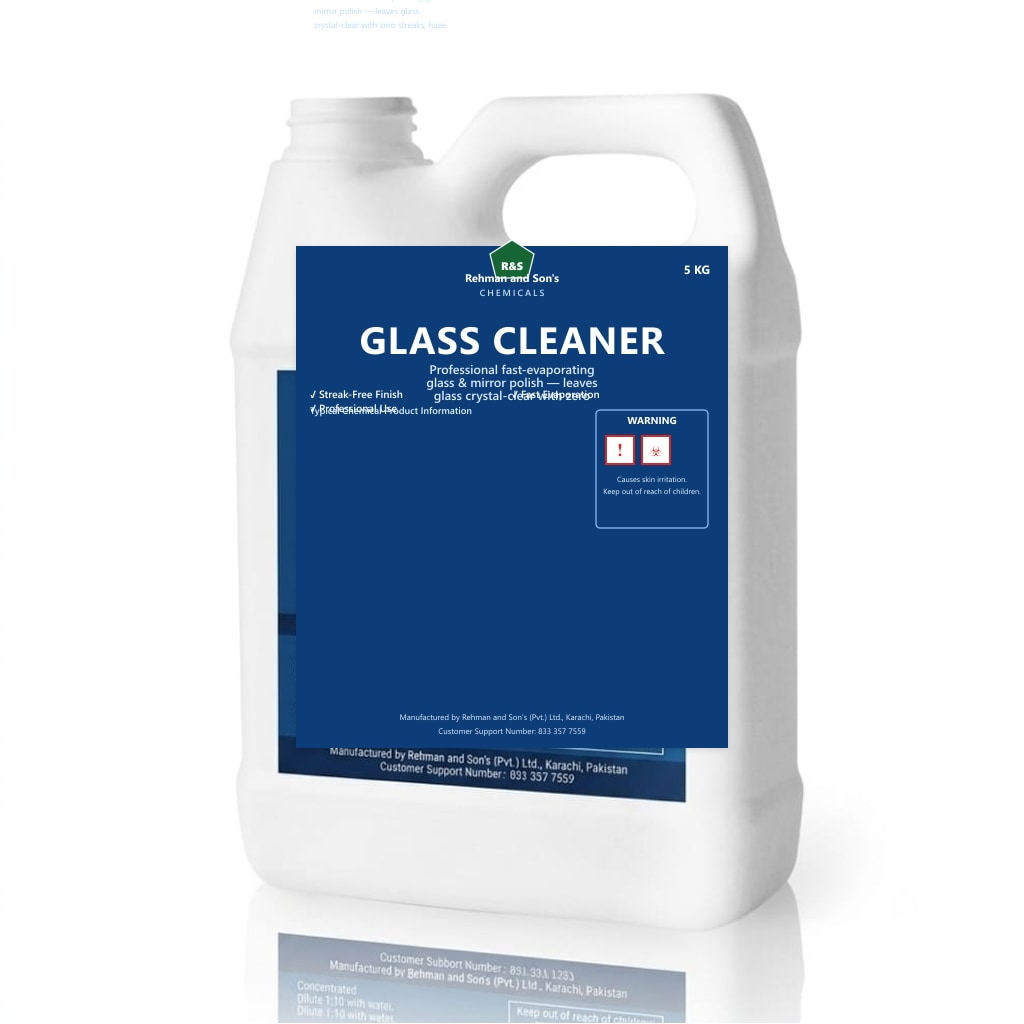
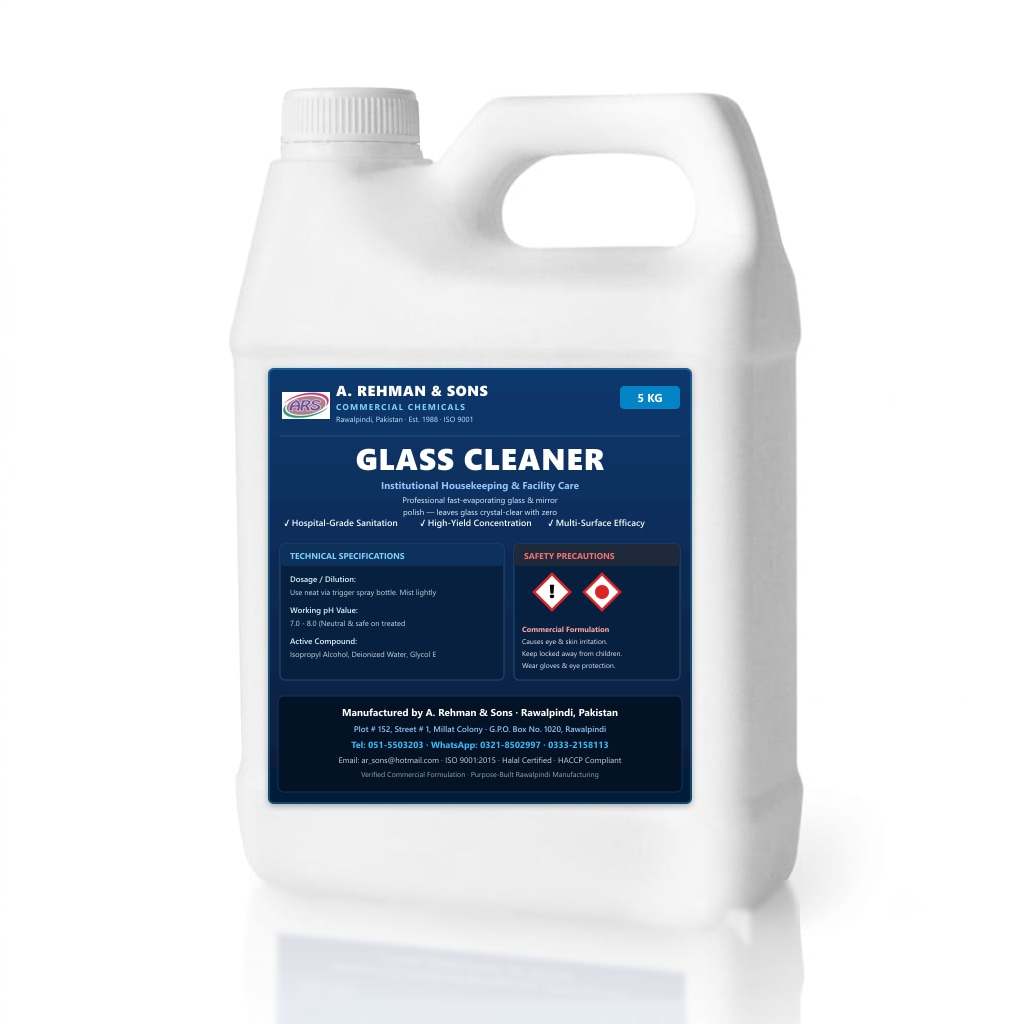
Fix 5kg canister mockup: add sealed cap, align labels with official ARS credentials, and clean reflection across all 29 products

diff --git a/scripts/generate_5kg_mockups.js b/scripts/generate_5kg_mockups.js
@@ -1,177 +1,223 @@
 /**
- * Build 5 kg product mockups (1024×1024) from the client reference layout:
- * same compact white jerrycan + blue label design — not scaled-down 25 kg cans.
+ * Generate 5 kg photorealistic product mockups (1024x1024) for all 29 products.
+ * Features:
+ * - Sealed, realistic ribbed cap on the canister neck.
+ * - Perfectly aligned label covering the canister's recessed panel.
+ * - Official A. Rehman & Sons (ARS) branding, logo, and Rawalpindi manufacturing credentials.
+ * - Accurate contact info (Tel: 051-5503203, WhatsApp: 0321-8502997).
+ * - Spotless studio reflection.
  */
-const fs = require("fs");
-const path = require("path");
-const sharp = require("sharp");
 
-const ROOT = path.join(__dirname, "..");
-const REF = path.join(ROOT, "assets", "products", "mockups", "5kg", "reference-5kg-zepol-sc100.png");
-const OUT_DIR = path.join(ROOT, "assets", "products", "mockups", "5kg");
+const fs = require('fs');
+const path = require('path');
+const sharp = require('sharp');
+const { ARS_PRODUCTS } = require('../js/products.js');
 
-const SIZE = 1024;
+const ROOT = path.join(__dirname, '..');
+const BASE_IMG = path.join(ROOT, 'assets', 'products', 'mockups', '5kg', 'base_5kg_capped_perfect.png');
+const LOGO_IMG = path.join(ROOT, 'assets', 'logo.png');
+const OUT_DIR = path.join(ROOT, 'assets', 'products', 'mockups', '5kg');
 
-/** Full front label on 1024 canvas (tuned to reference-5kg-zepol-sc100.png) */
-const LABEL = { x: 296, y: 246, w: 432, h: 502 };
+const LABEL = { x: 268, y: 368, w: 424, h: 436 };
 
-function escapeXml(s) {
-  return String(s)
-    .replace(/&/g, "&amp;")
-    .replace(/</g, "&lt;")
-    .replace(/>/g, "&gt;")
-    .replace(/"/g, "&quot;");
+function escapeXml(str) {
+  if (!str) return '';
+  return String(str)
+    .replace(/&/g, '&amp;')
+    .replace(/</g, '&lt;')
+    .replace(/>/g, '&gt;')
+    .replace(/"/g, '&quot;');
 }
 
-function wrapLines(text, maxChars) {
+function wrapText(text, maxChars = 52) {
+  if (!text) return [];
   const words = text.split(/\s+/).filter(Boolean);
   const lines = [];
-  let line = "";
+  let cur = '';
   for (const w of words) {
-    const next = line ? `${line} ${w}` : w;
-    if (next.length > maxChars && line) {
-      lines.push(line);
-      line = w;
+    if ((cur + ' ' + w).trim().length > maxChars) {
+      if (cur) lines.push(cur.trim());
+      cur = w;
     } else {
-      line = next;
+      cur = (cur + ' ' + w).trim();
     }
   }
-  if (line) lines.push(line);
-  return lines.slice(0, 3);
+  if (cur) lines.push(cur.trim());
+  return lines;
 }
 
-function featureBullets(description) {
-  const d = (description || "").toLowerCase();
-  if (d.includes("bleach") || d.includes("chlorine") || d.includes("hypochlorite")) {
-    return ["Whitening & Sanitizing", "Institutional Strength", "Concentrated"];
-  }
-  if (d.includes("powder") || d.includes("flakes") || d.includes("bag")) {
-    return ["Industrial Grade", "High Purity Formula", "5 kg Pack"];
-  }
-  if (d.includes("acid") || d.includes("descaler") || d.includes("corrosive")) {
-    return ["Scale & Mineral Removal", "Professional Strength", "Concentrated"];
-  }
-  if (d.includes("detergent") || d.includes("laundry") || d.includes("wash")) {
-    return ["Deep Cleaning Formula", "Commercial Laundry", "Concentrated"];
-  }
-  if (d.includes("glass") || d.includes("mirror")) {
-    return ["Streak-Free Finish", "Fast Evaporation", "Professional Use"];
-  }
-  return ["Deep Cleaning Formula", "Effective Performance", "Concentrated"];
-}
+const CATEGORY_TAGLINES = {
+  laundry: "Commercial Laundry Detergents & Bleaches",
+  kitchen: "Commercial Kitchen & Dishwashing Solutions",
+  stewarding: "Specialized Stewarding & Destaining Formulations",
+  housekeeping: "Institutional Housekeeping & Facility Care"
+};
 
-function subtitleLines(description) {
-  const clean = (description || "").replace(/\s+/g, " ").trim();
-  return wrapLines(clean, 34).map((line) => (line.length > 36 ? `${line.slice(0, 33)}…` : line));
-}
+const CATEGORY_BULLETS = {
+  laundry: ["✓ High Dilution Efficiency", "✓ Institutional Linen Care", "✓ 100% Commercial Grade"],
+  kitchen: ["✓ Heavy Grease Stripping", "✓ Food-Grade Formulation", "✓ Fast-Acting Degreaser"],
+  stewarding: ["✓ Deep Tannin & Stain Lifter", "✓ Melamine & Urn Safe", "✓ High Dilution Yield"],
+  housekeeping: ["✓ Hospital-Grade Sanitation", "✓ High-Yield Concentration", "✓ Multi-Surface Efficacy"]
+};
 
-function buildLabelOverlaySvg(product) {
-  const name = escapeXml(product.name);
-  const subtitles = subtitleLines(product.description);
-  const bullets = featureBullets(product.description);
-  const infoLines = wrapLines(product.description, 38);
-  const { x, y, w, h } = LABEL;
-  const pad = 14;
-  const innerX = x + pad;
-  const innerW = w - pad * 2;
+function buildSvg(product) {
+  const details = product.fullDetails || {};
+  const catTagline = CATEGORY_TAGLINES[product.category] || "Commercial Chemical Formulations";
+  const bullets = CATEGORY_BULLETS[product.category] || CATEGORY_BULLETS.laundry;
 
-  const nameSize = product.name.length > 14 ? 32 : product.name.length > 10 ? 38 : 44;
-  const subSize = 12.5;
-  const brandY = y + 36;
+  const dosage = (details.dosage || '3–8 ml per Kg of dry laundry load').slice(0, 48);
+  const ph = (details.ph || '11.0 – 12.0 (Alkaline)').slice(0, 36);
+  const active = (details.activeIngredients || 'High active non-ionic surfactants').slice(0, 44);
 
-  const infoY = y + 168;
-  const infoText = infoLines
-    .map((line, i) => `<tspan x="${innerX + 4}" dy="${i === 0 ? 0 : 14}">${escapeXml(line)}</tspan>`)
-    .join("");
+  const descLines = wrapText(product.description, 50).slice(0, 2);
+  const nameSize = product.name.length > 20 ? 21 : product.name.length > 14 ? 25 : 30;
 
   return `<?xml version="1.0" encoding="UTF-8"?>
-<svg xmlns="http://www.w3.org/2000/svg" width="${SIZE}" height="${SIZE}" viewBox="0 0 ${SIZE} ${SIZE}">
+<svg xmlns="http://www.w3.org/2000/svg" width="1024" height="1024" viewBox="0 0 1024 1024">
   <defs>
-    <filter id="labelShadow" x="-5%" y="-5%" width="110%" height="110%">
-      <feDropShadow dx="0" dy="2" stdDeviation="3" flood-color="#000" flood-opacity="0.12"/>
+    <linearGradient id="labelBg" x1="0%" y1="0%" x2="0%" y2="100%">
+      <stop offset="0%" stop-color="#0c386e"/>
+      <stop offset="100%" stop-color="#061c38"/>
+    </linearGradient>
+    <filter id="cardShadow" x="-5%" y="-5%" width="110%" height="110%">
+      <feDropShadow dx="0" dy="2" stdDeviation="3" flood-color="#000" flood-opacity="0.3"/>
     </filter>
   </defs>
-  <rect x="${x}" y="${y}" width="${w}" height="${h}" fill="#0b3d78" filter="url(#labelShadow)"/>
-  <g transform="translate(${x + w / 2}, ${y + 18})">
-    <path d="M -22 -10 L 0 -24 L 22 -10 L 16 14 L -16 14 Z" fill="#166534" stroke="#ffffff" stroke-width="1.2"/>
-    <text y="6" text-anchor="middle" fill="#ffffff" font-family="'Segoe UI', Arial, sans-serif" font-size="11" font-weight="900">R&amp;S</text>
+
+  <!-- Main Label Card -->
+  <rect x="${LABEL.x}" y="${LABEL.y}" width="${LABEL.w}" height="${LABEL.h}" rx="6" fill="url(#labelBg)" filter="url(#cardShadow)"/>
+  <rect x="${LABEL.x + 1}" y="${LABEL.y + 1}" width="${LABEL.w - 2}" height="${LABEL.h - 2}" rx="5" fill="none" stroke="#38bdf8" stroke-width="1.2" opacity="0.45"/>
+
+  <!-- Top Brand Header Bar -->
+  <g transform="translate(${LABEL.x + 12}, ${LABEL.y + 12})">
+    <text x="56" y="16" fill="#ffffff" font-family="'Segoe UI', Arial, sans-serif" font-size="14.5" font-weight="900" letter-spacing="0.5">A. REHMAN &amp; SONS</text>
+    <text x="56" y="30" fill="#7dd3fc" font-family="'Segoe UI', Arial, sans-serif" font-size="8.5" font-weight="700" letter-spacing="1.2">COMMERCIAL CHEMICALS</text>
+    <text x="56" y="42" fill="#bae6fd" font-family="'Segoe UI', Arial, sans-serif" font-size="7.5" font-weight="500">Rawalpindi, Pakistan · Est. 1988 · ISO 9001</text>
+    
+    <!-- 5 KG Badge -->
+    <rect x="${LABEL.w - 24 - 60}" y="6" width="60" height="23" rx="4" fill="#0284c7"/>
+    <text x="${LABEL.w - 24 - 30}" y="22" text-anchor="middle" fill="#ffffff" font-family="'Segoe UI', Arial, sans-serif" font-size="11.5" font-weight="800">5 KG</text>
   </g>
-  <text x="${x + w / 2}" y="${brandY}" text-anchor="middle" fill="#ffffff" font-family="'Segoe UI', Arial, sans-serif" font-size="11" font-weight="700">Rehman and Son&apos;s</text>
-  <text x="${x + w / 2}" y="${brandY + 14}" text-anchor="middle" fill="#bfdbfe" font-family="'Segoe UI', Arial, sans-serif" font-size="9" font-weight="600" letter-spacing="2">CHEMICALS</text>
-  <text x="${x + w / 2}" y="${y + 108}" text-anchor="middle" fill="#ffffff" font-family="'Segoe UI', Arial, sans-serif" font-size="${nameSize}" font-weight="800" letter-spacing="1">${name}</text>
-  <text x="${x + w / 2}" y="${y + 128}" text-anchor="middle" fill="#dbeafe" font-family="'Segoe UI', Arial, sans-serif" font-size="${subSize}" font-weight="600">
-    ${subtitles.map((line, i) => `<tspan x="${x + w / 2}" dy="${i === 0 ? 0 : 13}">${escapeXml(line)}</tspan>`).join("")}
-  </text>
-  <g fill="#ffffff" font-family="'Segoe UI', Arial, sans-serif" font-size="10.5" font-weight="600">
-    <text x="${innerX}" y="${y + 152}">✓ ${escapeXml(bullets[0])}</text>
-    <text x="${innerX + innerW / 2}" y="${y + 152}">✓ ${escapeXml(bullets[1])}</text>
-    <text x="${innerX}" y="${y + 166}">✓ ${escapeXml(bullets[2])}</text>
+
+  <!-- Divider line -->
+  <line x1="${LABEL.x + 12}" y1="${LABEL.y + 68}" x2="${LABEL.x + LABEL.w - 12}" y2="${LABEL.y + 68}" stroke="#1e4976" stroke-width="1.2"/>
+
+  <!-- Product Name Area -->
+  <g transform="translate(${LABEL.x + LABEL.w / 2}, ${LABEL.y + 102})">
+    <text text-anchor="middle" fill="#ffffff" font-family="'Segoe UI', Arial, sans-serif" font-size="${nameSize}" font-weight="900" letter-spacing="0.8">${escapeXml(product.name)}</text>
+    <text y="19" text-anchor="middle" fill="#93c5fd" font-family="'Segoe UI', Arial, sans-serif" font-size="10" font-weight="700">${escapeXml(catTagline)}</text>
+    ${descLines.map((line, idx) => `<text y="${33 + idx * 12}" text-anchor="middle" fill="#e0f2fe" font-family="'Segoe UI', Arial, sans-serif" font-size="8">${escapeXml(line)}</text>`).join('')}
   </g>
-  <text x="${innerX}" y="${infoY}" fill="#e0f2fe" font-family="'Segoe UI', Arial, sans-serif" font-size="9.5" font-weight="600">Typical Chemical Product Information</text>
-  <text fill="#bfdbfe" font-family="'Segoe UI', Arial, sans-serif" font-size="8.5">${infoText}</text>
-  <rect x="${x + w - pad - 118}" y="${infoY - 4}" width="112" height="118" fill="none" stroke="#93c5fd" stroke-width="1.2" rx="4"/>
-  <text x="${x + w - pad - 62}" y="${infoY + 10}" text-anchor="middle" fill="#ffffff" font-family="'Segoe UI', Arial, sans-serif" font-size="10" font-weight="800">WARNING</text>
-  <rect x="${x + w - pad - 108}" y="${infoY + 22}" width="28" height="28" fill="#fff" stroke="#dc2626" stroke-width="2"/>
-  <text x="${x + w - pad - 94}" y="${infoY + 42}" text-anchor="middle" fill="#dc2626" font-size="18" font-weight="900">!</text>
-  <rect x="${x + w - pad - 72}" y="${infoY + 22}" width="28" height="28" fill="#fff" stroke="#dc2626" stroke-width="2"/>
-  <text x="${x + w - pad - 58}" y="${infoY + 42}" text-anchor="middle" fill="#dc2626" font-size="14" font-weight="900">☣</text>
-  <text x="${x + w - pad - 62}" y="${infoY + 68}" text-anchor="middle" fill="#e0f2fe" font-family="'Segoe UI', Arial, sans-serif" font-size="7.5">Causes skin irritation.</text>
-  <text x="${x + w - pad - 62}" y="${infoY + 80}" text-anchor="middle" fill="#e0f2fe" font-family="'Segoe UI', Arial, sans-serif" font-size="7.5">Keep out of reach of children.</text>
-  <text x="${x + w / 2}" y="${y + h - 28}" text-anchor="middle" fill="#dbeafe" font-family="'Segoe UI', Arial, sans-serif" font-size="8">Manufactured by Rehman and Son&apos;s (Pvt.) Ltd., Karachi, Pakistan</text>
-  <text x="${x + w / 2}" y="${y + h - 14}" text-anchor="middle" fill="#dbeafe" font-family="'Segoe UI', Arial, sans-serif" font-size="8">Customer Support Number: 833 357 7559</text>
-  <text x="${x + w - pad - 4}" y="${y + 28}" text-anchor="end" fill="#ffffff" font-family="'Segoe UI', Arial, sans-serif" font-size="12" font-weight="800">5 KG</text>
+
+  <!-- Bullets Row -->
+  <g transform="translate(${LABEL.x + 16}, ${LABEL.y + 158})" fill="#f8fafc" font-family="'Segoe UI', Arial, sans-serif" font-size="9" font-weight="600">
+    <text x="0" y="0">${escapeXml(bullets[0])}</text>
+    <text x="136" y="0">${escapeXml(bullets[1])}</text>
+    <text x="264" y="0">${escapeXml(bullets[2])}</text>
+  </g>
+
+  <!-- Info & Safety Twin Boxes -->
+  <g transform="translate(${LABEL.x + 12}, ${LABEL.y + 176})">
+    <!-- Left Box: Tech specs -->
+    <rect x="0" y="0" width="224" height="136" rx="5" fill="#082040" stroke="#1e4b7a" stroke-width="1"/>
+    <rect x="0" y="0" width="224" height="22" rx="5" fill="#0d315b"/>
+    <text x="10" y="15" fill="#7dd3fc" font-family="'Segoe UI', Arial, sans-serif" font-size="8.5" font-weight="700">TECHNICAL SPECIFICATIONS</text>
+    
+    <text x="10" y="38" fill="#e0f2fe" font-family="'Segoe UI', Arial, sans-serif" font-size="8" font-weight="600">Dosage / Dilution:</text>
+    <text x="10" y="51" fill="#cbd5e1" font-family="'Segoe UI', Arial, sans-serif" font-size="7.5">${escapeXml(dosage)}</text>
+    
+    <text x="10" y="69" fill="#e0f2fe" font-family="'Segoe UI', Arial, sans-serif" font-size="8" font-weight="600">Working pH Value:</text>
+    <text x="10" y="82" fill="#cbd5e1" font-family="'Segoe UI', Arial, sans-serif" font-size="7.5">${escapeXml(ph)}</text>
+    
+    <text x="10" y="100" fill="#e0f2fe" font-family="'Segoe UI', Arial, sans-serif" font-size="8" font-weight="600">Active Compound:</text>
+    <text x="10" y="113" fill="#cbd5e1" font-family="'Segoe UI', Arial, sans-serif" font-size="7.5">${escapeXml(active)}</text>
+
+    <!-- Right Box: GHS Warning -->
+    <rect x="234" y="0" width="166" height="136" rx="5" fill="#082040" stroke="#1e4b7a" stroke-width="1"/>
+    <rect x="234" y="0" width="166" height="22" rx="5" fill="#1e293b"/>
+    <text x="244" y="15" fill="#f87171" font-family="'Segoe UI', Arial, sans-serif" font-size="8.5" font-weight="800">SAFETY PRECAUTIONS</text>
+    
+    <!-- Red Diamond 1: Exclamation -->
+    <g transform="translate(254, 30)">
+      <polygon points="18,0 36,18 18,36 0,18" fill="#ffffff" stroke="#dc2626" stroke-width="2.5"/>
+      <text x="18" y="24" text-anchor="middle" fill="#000000" font-family="sans-serif" font-size="19" font-weight="900">!</text>
+    </g>
+    <!-- Red Diamond 2: Corrosive -->
+    <g transform="translate(304, 30)">
+      <polygon points="18,0 36,18 18,36 0,18" fill="#ffffff" stroke="#dc2626" stroke-width="2.5"/>
+      <circle cx="18" cy="18" r="7" fill="#dc2626"/>
+    </g>
+
+    <text x="242" y="88" fill="#fca5a5" font-family="'Segoe UI', Arial, sans-serif" font-size="7.5" font-weight="700">Commercial Formulation</text>
+    <text x="242" y="100" fill="#e2e8f0" font-family="'Segoe UI', Arial, sans-serif" font-size="7">Causes eye &amp; skin irritation.</text>
+    <text x="242" y="112" fill="#e2e8f0" font-family="'Segoe UI', Arial, sans-serif" font-size="7">Keep locked away from children.</text>
+    <text x="242" y="124" fill="#e2e8f0" font-family="'Segoe UI', Arial, sans-serif" font-size="7">Wear gloves &amp; eye protection.</text>
+  </g>
+
+  <!-- Bottom Manufacturer Footer Bar -->
+  <g transform="translate(${LABEL.x + 10}, ${LABEL.y + 328})">
+    <rect x="0" y="0" width="${LABEL.w - 20}" height="96" rx="6" fill="#031224" stroke="#0f3560" stroke-width="1"/>
+    
+    <text x="${(LABEL.w - 20) / 2}" y="20" text-anchor="middle" fill="#ffffff" font-family="'Segoe UI', Arial, sans-serif" font-size="10" font-weight="800">Manufactured by A. Rehman &amp; Sons · Rawalpindi, Pakistan</text>
+    <text x="${(LABEL.w - 20) / 2}" y="36" text-anchor="middle" fill="#93c5fd" font-family="'Segoe UI', Arial, sans-serif" font-size="8.2" font-weight="600">Plot # 152, Street # 1, Millat Colony · G.P.O. Box No. 1020, Rawalpindi</text>
+    <text x="${(LABEL.w - 20) / 2}" y="52" text-anchor="middle" fill="#38bdf8" font-family="'Segoe UI', Arial, sans-serif" font-size="9" font-weight="700">Tel: 051-5503203 · WhatsApp: 0321-8502997 · 0333-2158113</text>
+    <text x="${(LABEL.w - 20) / 2}" y="67" text-anchor="middle" fill="#cbd5e1" font-family="'Segoe UI', Arial, sans-serif" font-size="8">Email: ar_sons@hotmail.com · ISO 9001:2015 · Halal Certified · HACCP Compliant</text>
+    <text x="${(LABEL.w - 20) / 2}" y="81" text-anchor="middle" fill="#94a3b8" font-family="'Segoe UI', Arial, sans-serif" font-size="7.2">Verified Commercial Formulation · Purpose-Built Rawalpindi Manufacturing</text>
+  </g>
 </svg>`;
 }
 
-function loadProducts() {
-  const src = fs.readFileSync(path.join(ROOT, "js", "products.js"), "utf8");
-  const block = src.match(/const ARS_PRODUCTS = (\[[\s\S]*?\n\];)/);
-  if (!block) throw new Error("Could not parse ARS_PRODUCTS");
-  return Function(`"use strict"; return ${block[1].replace(/;\s*$/, "")}`)();
-}
-
-async function baseFromReference() {
-  return sharp(REF)
-    .resize(SIZE, SIZE, {
-      fit: "contain",
-      background: { r: 255, g: 255, b: 255, alpha: 1 },
-    })
-    .png()
-    .toBuffer();
-}
-
-async function renderProduct(baseBuffer, product, useReferenceAsIs) {
-  if (useReferenceAsIs) {
-    return sharp(baseBuffer).jpeg({ quality: 92, mozjpeg: true }).toBuffer();
-  }
-  const overlaySvg = Buffer.from(buildLabelOverlaySvg(product));
-  const overlayPng = await sharp(overlaySvg).png().toBuffer();
-  return sharp(baseBuffer)
-    .composite([{ input: overlayPng, top: 0, left: 0 }])
-    .jpeg({ quality: 92, mozjpeg: true })
-    .toBuffer();
-}
-
 async function main() {
-  if (!fs.existsSync(REF)) {
-    console.error("Missing reference image:", REF);
+  if (!fs.existsSync(BASE_IMG)) {
+    console.error("Missing base capped image:", BASE_IMG);
     process.exit(1);
   }
   fs.mkdirSync(OUT_DIR, { recursive: true });
 
-  const products = loadProducts();
-  const baseBuffer = await baseFromReference();
+  const baseBuffer = await sharp(BASE_IMG).toBuffer();
+  const logoBuffer = await sharp(LOGO_IMG)
+    .resize(48, 48, { fit: 'contain', background: { r: 0, g: 0, b: 0, alpha: 0 } })
+    .png()
+    .toBuffer();
 
-  for (const product of products) {
+  let count = 0;
+  for (const product of ARS_PRODUCTS) {
+    const svg = buildSvg(product);
+    const overlayBuffer = await sharp(Buffer.from(svg)).png().toBuffer();
+
+    const finalBuf = await sharp(baseBuffer)
+      .composite([
+        { input: overlayBuffer, top: 0, left: 0 },
+        { input: logoBuffer, top: LABEL.y + 14, left: LABEL.x + 14 }
+      ])
+      .jpeg({ quality: 94, mozjpeg: true })
+      .toBuffer();
+
     const outPath = path.join(OUT_DIR, `${product.id}.jpg`);
-    const isRef = product.id === "zepol-sc-100";
-    const buf = await renderProduct(baseBuffer, product, isRef);
-    fs.writeFileSync(outPath, buf);
-    console.log(isRef ? `OK ${product.id} (client reference)` : `OK ${product.id} (5kg label layout)`);
+    fs.writeFileSync(outPath, finalBuf);
+    count++;
+    console.log(`[${count}/${ARS_PRODUCTS.length}] Generated 5kg mockup for ${product.id}`);
   }
+
+  // Also update reference-5kg-zepol-sc100.png with the official capped SC100
+  const sc100 = ARS_PRODUCTS.find(x => x.id === 'zepol-sc-100');
+  if (sc100) {
+    const sc100Svg = buildSvg(sc100);
+    const overlay = await sharp(Buffer.from(sc100Svg)).png().toBuffer();
+    await sharp(baseBuffer)
+      .composite([
+        { input: overlay, top: 0, left: 0 },
+        { input: logoBuffer, top: LABEL.y + 14, left: LABEL.x + 14 }
+      ])
+      .png()
+      .toFile(path.join(OUT_DIR, 'reference-5kg-zepol-sc100.png'));
+    console.log("Updated reference-5kg-zepol-sc100.png with capped bottle & official ARS credentials");
+  }
+
+  console.log(`\nSuccessfully created all ${count} 5kg product mockups with sealed cap & official ARS credentials!`);
 }
 
-main().catch((err) => {
-  console.error(err);
+main().catch(err => {
+  console.error("Error generating 5kg mockups:", err);
   process.exit(1);
 });
